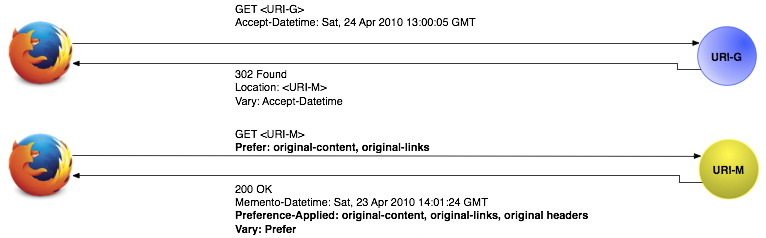
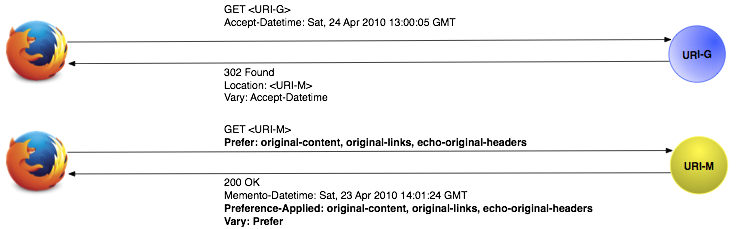
updates based on feedback from a conversation with Martin

diff --git a/raw-memento/index.html b/raw-memento/index.html
@@ -209,7 +209,7 @@ width: 10%;
    <div class="style3">
     <div class="t100_2">
     <a id="referencing"><h2>Abstract</h2></a>
-    Most web archives augment mementos when presenting them to the user, often for usability or legal purposes. Research efforts and software projects need access the original captured &quot;raw&quot; mementos. So that users and software do not need to resort to archive-specific solutions, this document describes proposals for uniform methods of discovering raw mementos in a web archive. This document is based on two prior blog posts that explored access to raw mementos in web archives [<a href="#ref1">1</a>], [<a href="#ref2">2</a>].
+    Most web archives augment Mementos when presenting them to the user, often for usability or legal purposes. Research efforts and software projects need access the original captured &quot;raw&quot; Mementos. So that users and software do not need to resort to archive-specific solutions, this document describes proposals for uniform methods of discovering raw Mementos in a web archive. This document is based on two prior blog posts that explored access to raw Mementos in web archives [<a href="#ref1">1</a>], [<a href="#ref2">2</a>].
     </div></div>
     
   
@@ -239,11 +239,9 @@ width: 10%;
     &nbsp;&nbsp;&nbsp;&nbsp; <a href="#option2eval">Evaluation of Prefer Against Memento</a>
     </div></div>
     <div class="t100_2"><div class="style3">
-    <a href="#draftprefs">Current Draft Preferences List</a>
+    <a href="#references">References</a>
     </div></div>
-    <div class="t100_2"><div class="style3">
-    <a href="#callforparticipation">Call For Participation</a>
-    </div></div>
+    
 
 <!-- Motivation paragraph -->
 
@@ -253,13 +251,13 @@ width: 10%;
     </div></div>
 
       <div class="t100_2"><div class="style3">
-		      Most web archives augment mementos when presenting them to the user, often for usability or legal purposes, as shown in Figures <a href="#figure1">1</a> and <a href="#figure2">2</a>. Additionally, some archives rewrite links to allow navigation within an archive, shown in <a href="#figure3">Figure 3</a>. This way the end user can visit other pages within the same archive from the same time period. Smaller archives, because of the size of their collections, do not benefit as much from these rewritten links. Of course, for Memento users, these rewritten links are not really required. 
+		      Most web archives augment Mementos when presenting them to the user, often for usability or legal purposes, as shown in Figures <a href="#figure1">1</a> and <a href="#figure2">2</a>. Additionally, some archives rewrite links to allow navigation within an archive, shown in <a href="#figure3">Figure 3</a>. This way the end user can visit other pages within the same archive from the same time period. Smaller archives, because of the size of their collections, do not benefit as much from these rewritten links. Of course, for Memento users, these rewritten links are not really required. 
 	      </div></div>
 	      <br>
 
     <div class="t100_4">
                 <div class="style4">
-			<a id="figure1">Figure 1</a>: An example of the PRONI archive augmenting a memento for usability purposes. These augmentations, oulined in red, were not in the original resource.
+			<a id="figure1">Figure 1</a>: An example of the PRONI archive augmenting a Memento for usability purposes. These augmentations, oulined in red, were not in the original resource.
                 </div>
 	<div style="text-align:center;">
     <img src="proni-page-sm.png" />
@@ -281,7 +279,7 @@ width: 10%;
 
     <div class="t100_4">
                 <div class="style4">
-			<a id="figure3">Figure 3</a>: An example of rewritten links. The memento on the left has been augmented by the web archive and thus its links are altered to intra-archive URIs. The memento on the right has no such augmentations.
+			<a id="figure3">Figure 3</a>: An example of rewritten links. The Memento on the left has been augmented by the web archive and thus its links are altered to intra-archive URIs. The Memento on the right has no such augmentations.
                 </div>
 	<div style="text-align:center;">
     <img src="augmented-vs-raw-links-extended-sm.png" />
@@ -306,7 +304,7 @@ Some web archives, such as the Internet Archive, preserve the original content a
     </div></div>
 
  <div class="t100_2"><div class="style3">
-      As of this writing, some web archives provide the following dimensions of raw content for a memento:
+      As of this writing, some web archives provide the following dimensions of raw content for a Memento:
       <ul>
 	      <li><code>original-content</code></li>
 	      <li><code>original-links</code></li>
@@ -317,7 +315,7 @@ Some web archives, such as the Internet Archive, preserve the original content a
 
 
  <div class="t100_2"><div class="style3">
-		 In this section, we describe these dimensions in terms of what the client desires of the memento.</div></div>
+		 In this section, we describe these dimensions in terms of what the client desires of the Memento.</div></div>
 
 
     <div class="t100_2"><div class="style3">
@@ -326,13 +324,7 @@ Some web archives, such as the Internet Archive, preserve the original content a
 
  <div class="t100_2"><div class="style3">
 
-		 A client desiring <em>original-content</em> seeks a memento that contains the same content as existed on the web at the moment it was captured by the web archive. The client's needs are satisfied if the memento contains no additional text or code, including banners, navigational elements, branding, JavaScript, CSS, or other additional embedded content. The text within the page must match the text that existed at the time of capture. Some web archives convert captured content from one content type to another (e.g., creating screenshots of HTML pages and storing them as PNG). To satisfy the client, the resulting memento must have the same content-type as was encountered at the time of capture.
-		 <!--
-		 Some web archives add additional text so that a memento can be distinguished from a live page. Other web archives provide banners or navigational elements to assist their users. 
-		 The text within the page should match the text that existed in the page at the moment of capture.
-		 Still other web archives convert the entire HTML page into another format, such as PNG.  
-		 A memento satisfying the preference of original-content would have none of these additional features and exist with the same content-type as originally encountered. 
-		 -->
+		 A client desiring <em>original-content</em> seeks a Memento that contains the same content as existed on the web at the moment it was captured by the web archive. The client's needs are satisfied if the Memento contains no additional text or code, including banners, navigational elements, branding, JavaScript, CSS, or other additional embedded content. The text within the page must match the text that existed at the time of capture. Some web archives convert captured content from one content type to another (e.g., creating screenshots of HTML pages and storing them as PNG). To satisfy the client, the resulting Memento must have the same content-type as was encountered at the time of capture.
     </div></div>
 	<br>
 
@@ -345,11 +337,6 @@ Some web archives, such as the Internet Archive, preserve the original content a
 
 		 In the case of <em>original-links</em>, the client wants the original URIs in the returned Memento as they existed at the time of that Memento's capture.  The term <em>links</em> here refers to links encountered anywhere in the document, including embedded resources such as JavaScript, images, and CSS.  As such, the client does not want the web archive to rewrite any of those URIs. Some web archives change the links in a Memento to intra-archive URIs. Others alter the links to point to live web resources if the archive does not have a Memento for the linked content. 
 
-		 <!--
-		 A memento existing in the dimension of <em>original-links</em> contains links with the same paths and structure as were encountered on the web at the moment that the Memento was captured by the web archive. 
-		 Some web archives change the links in a memento to intra-archive URIs. 
-		 A memento satisfying the quality of original-links would have the same links that existed in the page at the moment of capture, not rewritten or otherwise augmented by the web archive.
-		 -->
     </div></div>
     <br>
 
@@ -360,12 +347,8 @@ Some web archives, such as the Internet Archive, preserve the original content a
 
  <div class="t100_2"><div class="style3">
 		 Clients may also desire the content of the original HTTP headers that existed at the time of capture of the Memento. 
-		 To avoid issues with presenting stale headers to HTTP clients, servers can expose these headers in the memento's HTTP response with a prefix, such as <code>X-Archive-Orig-</code>, followed by the name of the original header (e.g., <code>X-Archive-Orig-Content-Type</code> corresponds to the original <code>Content-Type</code> from the time of capture).
+		 To avoid issues with presenting stale headers to HTTP clients, servers can expose these headers in the Memento's HTTP response with a prefix, such as <code>X-Archive-Orig-</code>, followed by the name of the original header (e.g., <code>X-Archive-Orig-Content-Type</code> corresponds to the original <code>Content-Type</code> from the time of capture).
 		 In this case, the client prefers that the server <em>echo-original-headers</em>.
-		 <!--
-		 A memento existing in the dimension of <em>echo-original-headers</em> presents the HTTP headers encountered during the capture of the memento. 
-		 To avoid issues with presenting stale headers to HTTP clients, the headers are available in the memento's HTTP response in the form of <code>X-Archive-Orig-*</code>, where <code>*</code> is replaced by the original header (e.g., <code>X-Archive-Orig-Content-Type</code> corresponds to the original <code>Content-Type</code> from the time of capture).
-		 -->
     </div></div>
 
 
@@ -375,7 +358,7 @@ Some web archives, such as the Internet Archive, preserve the original content a
 
  <div class="t100_2"><div class="style3">
 		 The original-content and original-links dimensions can currently be satisfied by <a href="http://www.netpreserve.org/openwayback">OpenWayback</a> any <a href="https://pypi.python.org/pypi/pywb/">pywb</a>'s <tt>id_</tt> and <tt>im_</tt> URI patterns (e.g., http://web.archive.org/web/20170415072537im_/bbc.com). The echo-original-headers dimension is satisfied by <tt>im_</tt>, but not really by <tt>id_</tt>. In some versions of OpenWayback, the <tt>id_</tt> URI pattern produces the actual original headers, which are stale, and, as noted, may create issues with HTTP clients. In others, the <tt>id_</tt> URI pattern acts like the <tt>im_</tt> URI pattern.
-	Not all web archives utilize the same playback engine or even the same version of a given engine. The goal of this document is to propose a uniform method that does not require a user or software developer to create separate cases for each archive or playback engine.
+		 Not all web archives utilize the same playback engine or even the same version of a given engine. For example, the behavior of <tt>im_</tt> and <tt>id_</tt> at the Internet Archive is identical, but the two URI patterns produce different behaviors at Archive-It. The goal of this document is to propose a uniform method that does not require a user or software developer to create separate cases for each archive or playback engine.
     </div></div>
 
 <br />
@@ -395,7 +378,7 @@ Some web archives, such as the Internet Archive, preserve the original content a
     <br />
 
  <div class="t100_2"><div class="style3">
-		 There are two components of the Memento infrastructure that can produce a memento that satisfies the user's preferences:
+		 There are two components of the Memento infrastructure that can produce a Memento that satisfies the user's preferences:
 		 <ul>
 			 <li>the TimeGate</li>
 			 <li>the Memento itself</li>
@@ -408,6 +391,12 @@ Some web archives, such as the Internet Archive, preserve the original content a
     <a id="option1"><h3>Option 1: Uniform Access With the HTTP Prefer Header Against A TimeGate</h3></a>
     </div></div>
 
+    <div class="t100_2"><div class="style3">
+    <a href="#figure4">Figure 4</a> shows a simplified interaction between a client, a TimeGate, and a Memento. This section explains how the <code>Prefer</code> header could be used against a TimeGate to obtain a raw Memento.
+    </div></div>
+
+    <br />
+
     <div class="t100_4">
                 <div class="style4">
 			<a id="figure4">Figure 4</a>: Simplified diagram of using the HTTP Prefer Header Against a TimeGate
@@ -418,13 +407,13 @@ Some web archives, such as the Internet Archive, preserve the original content a
     </div>
 
     <div class="t100_2"><div class="style3">
-		    With the <code>Prefer</code> header, a client can issue the following request to a URI-G if they prefer a raw memento in any of these dimensions. If a client desires a memento with the echo-original-headers, then they would include <code>Prefer: echo-original-headers</code> in the HTTP request, as shown in <a href="#example1">Example 1</a>.
+		    With the <code>Prefer</code> header, a client can issue the following request to a URI-G if they prefer a raw Memento in any of these dimensions. If a client desires a Memento with the echo-original-headers, then they would include <code>Prefer: echo-original-headers</code> in the HTTP request, as shown in <a href="#example1">Example 1</a>.
 	    </div></div>
 <br />
 
     <div class="t100_4">
                 <div class="style4">
-			<a id="example1">Example 1</a>: Request headers sent to a TimeGate asking for a memento with only <code>echo-original-headers</code>
+			<a id="example1">Example 1</a>: Request headers sent to a TimeGate asking for a Memento with only <code>echo-original-headers</code>
                 </div>
                 <br />
     <pre>
@@ -436,15 +425,42 @@ Connection: close
     </pre>
 </div>
 
+
     <div class="t100_2"><div class="style3">
-		    A client can also indicate multiple preferences, separated by commas. In <a href="#example2">Example 2</a>, a client issues the following request to a URI-G, stating their preference for all of these dimensions, using <code>Prefer: original-content, original-links, echo-original-headers</code>.
+		    The TimeGate would then use the <code>Preference-Applied</code> header to indicate which dimensions are satisfied by the URI-M in the <code>Location</code> header of its response. Seen in the HTTP response of <a href="#example2">Example 2</a>, the <code>Preference-Applied</code> header contains the value <code>echo-original-headers</code>, indicating that the URI listed in the <code>Location</code> header satisfies this dimension. A client can then make a decision based on (1) what it requested, and (2) what preferences are actually satisfied in the response.
+</div></div>
+
+<br />
+
+    <div class="t100_4">
+                <div class="style4">
+			<a id="example2">Example 2</a>: Response headers from a TimeGate for the request from Example 1
+                </div>
+                <br />
+    <pre>
+HTTP/1.1 302 Found
+Date: Mon, 08 May 2017 17:07:16 GMT
+Location: an.archive.org/all/20100414235211/http://www.example.org/
+Vary: Accept-Datetime, Prefer
+Last-Modified: Mon, 08 May 2017 17:06:44 GMT
+Link: &lt;http://www.example.org&gt;;rel="original",
+  &lt;http://an.archive.org/timemap/link/http://example.org&gt;;rel="timemap"; type="application/link-format"
+Preference-Applied: echo-original-headers
+Content-Type: text/plain; charset=UTF-8
+Content-Length: 0
+Connection: close
+    </pre>
+</div>
+
+    <div class="t100_2"><div class="style3">
+		    A client can also indicate multiple preferences, separated by commas. In <a href="#example3">Example 3</a>, a client issues the following request to a URI-G, stating their preference for all of these dimensions, using <code>Prefer: original-content, original-links, echo-original-headers</code>.
 	    </div></div>
 
 <br />
 
     <div class="t100_4">
                 <div class="style4">
-			<a id="example2">Example 2</a>: Request headers sent to a TimeGate asking for a memento with only <code>original-content</code>, <code>original-links</code>, and <code>echo-original-headers</code>
+			<a id="example3">Example 3</a>: Request headers sent to a TimeGate asking for a Memento with only <code>original-content</code>, <code>original-links</code>, and <code>echo-original-headers</code>
                 </div>
                 <br />
     <pre>
@@ -458,14 +474,14 @@ Connection: close
 
 
     <div class="t100_2"><div class="style3">
-		    The TimeGate would then use the <code>Preference-Applied</code> header to indicate which dimensions are satisfied by the URI-M in the <code>Location</code> header of its response. Seen in the HTTP response of <a href="#example3">Example 3</a>, the <code>Preference-Applied</code> header contains the value <code>original-content, original-links, echo-original-headers</code>, indicating that the URI listed in the <code>Location</code> header satisfies these three dimensions. A client can then make a decision based on (1) what it requested, and (2) what preferences are actually satisfied in the response.
+		    Just as with one preference, the TimeGate would then use the <code>Preference-Applied</code> header to indicate which dimensions are satisfied by the URI-M in the <code>Location</code> header of its response. Seen in the HTTP response of <a href="#example4">Example 4</a>, the <code>Preference-Applied</code> header contains the value <code>original-content, original-links, echo-original-headers</code>, indicating that the URI listed in the <code>Location</code> header satisfies these three dimensions. 
 </div></div>
 
 <br />
 
     <div class="t100_4">
                 <div class="style4">
-			<a id="example3">Example 3</a>: Response headers from a TimeGate for the request from Example 1
+			<a id="example4">Example 4</a>: Response headers from a TimeGate for the request from Example 1
                 </div>
                 <br />
     <pre>
@@ -484,6 +500,12 @@ Connection: close
 </div>
 
     <div class="t100_2"><div class="style3">
+		    Note that the values in the <code>Preference-Applied</code> header will depend upon the dimensions available for the given Memento. Because they reflect the preferences supported by a given Memento, these values may be a subset of the preferences specified in the request or may include additional preferences not requested by the client.
+	    </div></div>
+
+	    <br />
+
+    <div class="t100_2"><div class="style3">
 		    The <code>Vary</code> header would also contain the <code>Prefer</code> value in addition to the <code>accept-datetime</code> value in order to indicate that clients can influence the TimeGate's response by using the <code>Prefer</code> header. This allows responses to be cached for requests that share the same options in their request headers.
 	    </div></div>
 
@@ -496,7 +518,7 @@ Connection: close
 <br />
 
     <div class="t100_2"><div class="style3">
-		    Memento clients not seeking raw mementos will just submit requests as usual, not including the <code>Prefer</code> header.
+		    Memento clients not seeking raw Mementos will just submit requests as usual, not including the <code>Prefer</code> header.
 </div></div>
 
 
@@ -517,17 +539,23 @@ Connection: close
     <div class="t100_2"><div class="style3">
 		    <strong>Cons:</strong>
 		    <ul>
-			    <li>This solution tightly integrates the solution for raw mementos with the existing Memento framework. Archives will need to expose the dimensions of rawness that they support so that Memento aggregators can then evaluate the mementos offered by each archive.</li>
-			    <li>Because the TimeGate must redirect to a URI-M that satisfies the preferred dimensions of rawness, mementos containing different dimensions of rawness will need to be identified by different URI-Ms.</li>
+			    <li>This solution tightly integrates the solution for raw Mementos with the existing Memento framework. Archives will need to expose the dimensions of rawness that they support so that Memento aggregators can then evaluate the Mementos offered by each archive.</li>
+			    <li>Because the TimeGate must redirect to a URI-M that satisfies the preferred dimensions of rawness, Mementos containing different dimensions of rawness will need to be identified by different URI-Ms.</li>
 			    <li>With negotiation at the TimeGate, this option increases the complexity of the TimeMaps that supply data for aggregators and TimeGates. What if an archive only supports some of the dimensions of rawness for a subset of its holdings?</li>
 
-			    <li>RFC 7089 states &quot;It is the TimeGate server's responsibility to honor (or not) such content negotiation, and in doing so it MUST always first select a Memento that meets the user agent's datetime preference, and then consider honoring regular content negotiation for it.&quot; What about the dimensions of rawness? If a TimeGate receives a preference for <em>echo-original-headers</em> and other elements of content negotiation, which takes precedence and how should the TimeGate respond? Among mementos from different archives, which answer should an aggregator provide?</li>
-			    <li>Is negotiation needed for TimeMaps? If each dimension exists at a different URI-M. How does an aggregator supply a TimeMap with a certain subset of dimensions? Is it sufficient to mix dimensions if not all are present? Should there be <em>strict TimeMaps</em> that only list URI-Ms that specifically adhere to the stated preferences, even if there are raw mementos that provide more preferences? Do TimeMaps now need to specify dimensions of rawness along each memento entry?
+			    <li>RFC 7089 states &quot;It is the TimeGate server's responsibility to honor (or not) such content negotiation, and in doing so it MUST always first select a Memento that meets the user agent's datetime preference, and then consider honoring regular content negotiation for it.&quot; What about the dimensions of rawness? If a TimeGate receives a preference for <em>echo-original-headers</em> and other elements of content negotiation, which takes precedence and how should the TimeGate respond? Among Mementos from different archives, which answer should an aggregator provide?</li>
+			    <li>Is negotiation needed for TimeMaps? If each dimension exists at a different URI-M. How does an aggregator supply a TimeMap with a certain subset of dimensions? Is it sufficient to mix dimensions if not all are present? Should there be <em>strict TimeMaps</em> that only list URI-Ms that specifically adhere to the stated preferences, even if there are raw Mementos that provide more preferences? Do TimeMaps now need to specify dimensions of rawness along each Memento entry?
 </div></div>
 
     <div class="t100_2"><div class="style3">
     <a id="option2"><h3>Option 2: Uniform Access With the HTTP Prefer Header Against Mementos</h3></a>
     </div></div>
+
+    <div class="t100_2"><div class="style3">
+    <a href="#figure4">Figure 5</a> shows a simplified interaction between a client, a TimeGate, and a Memento. This section explains how the <code>Prefer</code> header could be used directly against Memento to obtain a raw representation of that Memento.
+    </div></div>
+
+    <br />
 
     <div class="t100_4">
                 <div class="style4">
@@ -540,19 +568,19 @@ Connection: close
 
 
     <div class="t100_2"><div class="style3">
-		    Instead of asking the TimeGate to redirect to a raw memento, a client could issue the following request directly to a URI-M if they prefer a raw memento in any of these dimensions. In this scenario, a TimeGate plays no role in the generating the response. If a client desires a memento that will the <em>echo-original-headers</em> and contains <em>original-content</em>, then they would include <code>Prefer: echo-original-headers, original-content</code> in the HTTP request, as shown in <a href="#example4">Example 4</a>. As with Option 1, the client can also supply multiple preferences, separated by commas.
+		    Instead of asking the TimeGate to redirect to a raw Memento, a client could issue the following request directly to a URI-M if they prefer a raw Memento in any of these dimensions. In this scenario, a TimeGate plays no role in the generating the response. If a client desires a Memento that will the <em>echo-original-headers</em> and contains <em>original-content</em> and <em>original-links</em>, then they would include <code>Prefer: original-content, original-links, echo-original-headers</code> in the HTTP request, as shown in <a href="#example5">Example 5</a>. As with Option 1, the client can also supply multiple preferences, separated by commas.
 	    </div></div>
 	    <br>
 
     <div class="t100_4">
                 <div class="style4">
-			<a id="example4">Example 4</a>: Request headers sent directly to a URI-M asking for a memento with <code>echo-original-headers</code> and <code>original-content</code>
+			<a id="example5">Example 5</a>: Request headers sent directly to a URI-M asking for a Memento with <code>echo-original-headers</code> and <code>original-content</code>
                 </div>
                 <br />
     <pre>
 GET /web/20160721152544/http://www.example.com/ HTTP/1.1
 Host: an.archive.org
-Prefer: echo-original-headers, original-content
+Prefer: original-content, original-links, echo-original-headers
 Connection: close
     </pre>
 </div>
@@ -560,7 +588,7 @@ Connection: close
 <br />
 
     <div class="t100_2"><div class="style3">
-		    A server would then use the <code>Preference-Applied</code> header in its response to indicate which dimensions it had satisfied from the request of this URI-M. Seen in the HTTP response of <a href="#example5">Example 5</a>, the <code>Preference-Applied</code> header contains the value <code>original-content, original-links, echo-original-headers</code>, indicating that the response satisfies these three dimensions.
+		    A server would then use the <code>Preference-Applied</code> header in its response to indicate which dimensions it had satisfied from the request of this URI-M. Seen in the HTTP response of <a href="#example6">Example 6</a>, the <code>Preference-Applied</code> header contains the value <code>original-content, original-links, echo-original-headers</code>, indicating that the response satisfies these three dimensions.
 </div></div>
     
   
@@ -569,7 +597,7 @@ Connection: close
 
     <div class="t100_4">
                 <div class="style4">
-			<a id="example5">Example 5</a>: Response headers for a memento located at <code>http://an.archive.org/web/20160721152544/http://www.example.com/</code> 
+			<a id="example6">Example 6</a>: Response headers for a Memento located at <code>http://an.archive.org/web/20160721152544/http://www.example.com/</code> 
                 </div>
                 <br />
     <pre>
@@ -593,9 +621,14 @@ X-Archive-Orig-date: Thu, 21 Jul 2016 15:25:44 GMT
 X-Archive-Orig-content-length: 109672
     </pre>
 </div> 
+    <div class="t100_2"><div class="style3">
+		    Again, as before, the values in the <code>Preference-Applied</code> header may be a subset or superset of the preferences specified by the client, depending on the availability of a Memento satisfying those preferences in the web archive.
+	    </div></div>
+
+	    <br />
 
     <div class="t100_2"><div class="style3">
-To Satisfy the <code>echo-original-headers</code> preference, the server also includes the <code>X-Archive-Orig-*</code> headers that contain the values of the original headers at the time of capture.
+To satisfy the <code>echo-original-headers</code> preference, the server also includes the <code>X-Archive-Orig-*</code> headers that contain the values of the original headers at the time of capture.
 </div></div> 
       <br>
 
@@ -620,15 +653,15 @@ If a server can only apply some of the preferences, then that the server only li
     </div></div>
 
     <div class="t100_2"><div class="style3">
-		    If the client issues no <code>Prefer</code> header in the request, then the server can still use the <code>Preference-Applied</code> header to indicate which preferences are met by default. Again, the <code>Vary</code> header indicates that clients can influence the response via the use of the <code>Prefer</code> request header. The <code>Content-Location</code> header indicates the URI-M of the memento. The response headers for such a default memento from an archive like the Internet Archive are shown below. Because this web archive will <em>echo-original-headers</em> on default requests, we see that value used in the <code>Preference-Applied</code> header.
+		    If the client issues no <code>Prefer</code> header in the request, then the server can still use the <code>Preference-Applied</code> header to indicate which preferences are met by default. Again, the <code>Vary</code> header indicates that clients can influence the response via the use of the <code>Prefer</code> request header. The <code>Content-Location</code> header indicates the URI-M of the Memento. The response headers for such a default Memento from an archive like the Internet Archive are shown in <a href="#example7">Example 7</a>. Because this web archive will <em>echo-original-headers</em> on default requests, we see that value used in the <code>Preference-Applied</code> header.
 	    </div></div>
 
 	    <br />
 
     <div class="t100_4">
                 <div class="style4">
-			<a id="example6">Example 6</a>:
-			Default response headers for a memento located at <code>http://an.archive.org/web/20160721152544/http://www.example.com/</code>
+			<a id="example7">Example 7</a>:
+			Default response headers for a Memento located at <code>http://an.archive.org/web/20160721152544/http://www.example.com/</code>
                 </div>
                 <br />
     <pre>
@@ -665,7 +698,7 @@ X-Archive-Orig-content-length: 109672
 	<strong>Pros:</strong>
 		<ul>
 			<li>This solution is decoupled from the Memento Protocol.</li>
-			<li>If an archive adds a new dimension at a later date, then it only needs to be supported by the specific mementos with this new dimension.</li>
+			<li>If an archive adds a new dimension at a later date, then it only needs to be supported by the specific Mementos with this new dimension.</li>
 			<li>Requests to a single URI-M can result in responses containing different dimensions of rawness, thus the archive does not need to provide special TimeMaps for different dimensions, or combinations of dimensions.</li>
 			<li>This option saves on the number of requests if iterating through a TimeMap. For each URI-M, a client has one HTTP transaction instead of two. With option 1, the client would need to negotiate with the TimeGate for each URI-M, and then request the URI-M. With option 2, the client only needs to issue a request to each URI-M.</li>
 			<li>Archives control what information on rawness that they expose.</li>
@@ -675,13 +708,13 @@ X-Archive-Orig-content-length: 109672
     <div class="t100_2"><div class="style3">
 		    <strong>Cons:</strong>
 		    <ul>
-			    <li>Clients will need to separately send the <code>Prefer</code> header to the memento after negotiating with the TimeGate.</li>
-			    <li>The systems used by web archives must support this <code>Prefer</code> feature for all mementos.</li>
+			    <li>Clients will need to separately send the <code>Prefer</code> header to the Memento after negotiating with the TimeGate.</li>
+			    <li>The systems used by web archives must support this <code>Prefer</code> feature for all Mementos.</li>
 		    </ul>
     </div></div>
 
     <div class="t100_2"><div class="style3">
-    <a id="draftpres"><h2>References</h2></a>
+    <a id="references"><h2>References</h2></a>
     </div></div>
 
     <div class="t100_2"><div class="style3">
